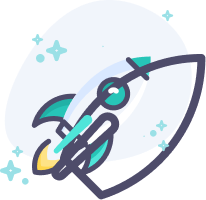
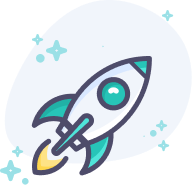
updated mails

diff --git a/mjml_templates/templates/close_out/close_out.html b/mjml_templates/templates/close_out/close_out.html
@@ -72,14 +72,9 @@
         max-width: 35%;
       }
 
-      .mj-column-per-70 {
-        width: 70% !important;
-        max-width: 70%;
-      }
-
-      .mj-column-per-30 {
-        width: 30% !important;
-        max-width: 30%;
+      .mj-column-per-33 {
+        width: 33% !important;
+        max-width: 33%;
       }
 
       .mj-column-per-25 {
@@ -242,7 +237,7 @@
                                   <tbody>
                                     <tr>
                                       <td style="width:80px;">
-                                        <img alt="Sorting Box" height="auto" src="./img/phone-icon.png" style="border:0;display:block;outline:none;text-decoration:none;height:auto;width:100%;font-size:13px;" width="80" />
+                                        <img alt="Sorting Box" height="auto" src="./img/icon-goggles.png" style="border:0;display:block;outline:none;text-decoration:none;height:auto;width:100%;font-size:13px;" width="80" />
                                       </td>
                                     </tr>
                                   </tbody>
@@ -315,7 +310,7 @@
         </tr>
       </table>
       <![endif]-->
-    <!-- Spacer -->
+    <!-- spacer -->
     <!--[if mso | IE]>
       <table
          align="center" border="0" cellpadding="0" cellspacing="0" class="" style="width:600px;" width="600"
@@ -364,7 +359,12 @@
                                   <table border="0" cellpadding="0" cellspacing="0" role="presentation" style="" width="100%">
                                     <tr>
                                       <td align="left" style="font-size:0px;padding:10px 25px;word-break:break-word;">
-                                        <div style="font-family:Helvetica;font-size:16px;font-weight:600;letter-spacing:0.2px;line-height:1;text-align:left;color:#4E4C6A;">A budget made for you, or by you.</div>
+                                        <div style="font-family:Helvetica;font-size:16px;font-weight:600;letter-spacing:0.2px;line-height:1;text-align:left;color:#4E4C6A;">How we'll stay in touch with you.</div>
+                                      </td>
+                                    </tr>
+                                    <tr>
+                                      <td align="left" style="font-size:0px;padding:10px 25px;padding-top:0px;word-break:break-word;">
+                                        <div style="font-family:Helvetica;font-size:13px;line-height:1;text-align:left;color:#4E4C6A;">22seven shows you:</div>
                                       </td>
                                     </tr>
                                   </table>
@@ -377,18 +377,18 @@
             </td>
           
             <td
-               class="" style="vertical-align:top;width:570px;"
+               class="" style="vertical-align:top;width:188.1px;"
             >
           <![endif]-->
-                        <div class="mj-column-per-100 mj-outlook-group-fix" style="font-size:0px;text-align:left;direction:ltr;display:inline-block;vertical-align:top;width:100%;">
+                        <div class="mj-column-per-33 mj-outlook-group-fix" style="font-size:0px;text-align:left;direction:ltr;display:inline-block;vertical-align:top;width:100%;">
                           <table border="0" cellpadding="0" cellspacing="0" role="presentation" style="vertical-align:top;" width="100%">
                             <tr>
                               <td align="center" style="font-size:0px;padding:10px 25px;word-break:break-word;">
                                 <table border="0" cellpadding="0" cellspacing="0" role="presentation" style="border-collapse:collapse;border-spacing:0px;">
                                   <tbody>
                                     <tr>
-                                      <td style="width:520px;">
-                                        <img alt="Feature available on all platforms" height="auto" src="./img/platforms.png" style="border:0;display:block;outline:none;text-decoration:none;height:auto;width:100%;font-size:13px;" width="520" />
+                                      <td style="width:84px;">
+                                        <img alt="Get Debt Free Icon" height="auto" src="./img/icon-slice.png" style="border:0;display:block;outline:none;text-decoration:none;height:auto;width:100%;font-size:13px;" width="84" />
                                       </td>
                                     </tr>
                                   </tbody>
@@ -396,19 +396,13 @@
                               </td>
                             </tr>
                             <tr>
-                              <td align="left" style="font-size:0px;padding:10px 25px;word-break:break-word;">
-                                <div style="font-family:Helvetica;font-size:13px;font-weight:300;letter-spacing:0.2px;line-height:16px;text-align:left;color:#4E4C6A;">22seven creates a personalised budget for you, automatically, based on your own actual behaviour. It calculates your average spending on each category over the last few months, and shows you how you’re doing against that so far this month. <br /><br /> You can also create your own budget. Instead of tracking your spending against your average, you can set your own target amount for any category. (Here’s how to do it on <a href="https://conversations.22seven.com/hc/en-us/articles/200651226-How-to-categorise-transactions/?utm_source=*%7CMAIL_NAME%7C*&utm_medium=email&utm_campaign=InService" style="color: #27c5b8;">web</a>, <a href="https://conversations.22seven.com/hc/en-us/articles/201740377-How-to-categorise-transactions-on-Android/?utm_source=*%7CMAIL_NAME%7C*&utm_medium=email&utm_campaign=InService" style="color: #27c5b8;">Android</a> or <a href="https://conversations.22seven.com/hc/en-us/articles/202650303-How-to-change-a-transaction-category-on-iOS-/?utm_source=*%7CMAIL_NAME%7C*&utm_medium=email&utm_campaign=InService" style="color: #27c5b8;">iPhone</a>.) <br /><br /></div>
+                              <td align="center" style="font-size:0px;padding:10px 25px;word-break:break-word;">
+                                <div style="font-family:Helvetica;font-size:16px;font-weight:600;letter-spacing:0.2px;line-height:1;text-align:center;color:#4E4C6A;">Slice</div>
                               </td>
                             </tr>
                             <tr>
-                              <td align="center" vertical-align="middle" style="font-size:0px;padding:10px 25px;word-break:break-word;">
-                                <table border="0" cellpadding="0" cellspacing="0" role="presentation" style="border-collapse:separate;line-height:100%;">
-                                  <tr>
-                                    <td align="center" bgcolor="#27C5B8" role="presentation" style="border:none;border-radius:20px;cursor:auto;mso-padding-alt:10px 25px;background:#27C5B8;" valign="middle">
-                                      <a href="#" style="display:inline-block;background:#27C5B8;color:#ffffff;font-family:Helvetica;font-size:13px;font-weight:normal;line-height:120%;margin:0;text-decoration:none;text-transform:none;padding:10px 25px;mso-padding-alt:0px;border-radius:20px;" target="_blank"> See your budget </a>
-                                    </td>
-                                  </tr>
-                                </table>
+                              <td align="center" style="font-size:0px;padding:10px 25px;word-break:break-word;">
+                                <div style="font-family:Helvetica;font-size:12px;font-weight:300;letter-spacing:0.2px;line-height:14px;text-align:center;color:#4E4C6A;">A short read of weird and wonderful, random but relevant money-related stuff. We send this every Tuesday. <br /><br /></div>
                               </td>
                             </tr>
                           </table>
@@ -417,6 +411,78 @@
             </td>
           <![endif]-->
                         <!-- Get Debt Free -->
+                        <!--[if mso | IE]>
+            <td
+               class="" style="vertical-align:top;width:188.1px;"
+            >
+          <![endif]-->
+                        <div class="mj-column-per-33 mj-outlook-group-fix" style="font-size:0px;text-align:left;direction:ltr;display:inline-block;vertical-align:top;width:100%;">
+                          <table border="0" cellpadding="0" cellspacing="0" role="presentation" style="vertical-align:top;" width="100%">
+                            <tr>
+                              <td align="center" style="font-size:0px;padding:10px 25px;word-break:break-word;">
+                                <table border="0" cellpadding="0" cellspacing="0" role="presentation" style="border-collapse:collapse;border-spacing:0px;">
+                                  <tbody>
+                                    <tr>
+                                      <td style="width:84px;">
+                                        <img alt="Detect Double Charge Icon" height="auto" src="./img/icon-money-month.png" style="border:0;display:block;outline:none;text-decoration:none;height:auto;width:100%;font-size:13px;" width="84" />
+                                      </td>
+                                    </tr>
+                                  </tbody>
+                                </table>
+                              </td>
+                            </tr>
+                            <tr>
+                              <td align="center" style="font-size:0px;padding:10px 25px;word-break:break-word;">
+                                <div style="font-family:Helvetica;font-size:16px;font-weight:600;letter-spacing:0.2px;line-height:1;text-align:center;color:#4E4C6A;">Money Month</div>
+                              </td>
+                            </tr>
+                            <tr>
+                              <td align="center" style="font-size:0px;padding:10px 25px;word-break:break-word;">
+                                <div style="font-family:Helvetica;font-size:12px;font-weight:300;letter-spacing:0.2px;line-height:14px;text-align:center;color:#4E4C6A;">A personalised link to highlights, insights and summaries of your money over the last month. We send this, well, monthly. <br /><br /></div>
+                              </td>
+                            </tr>
+                          </table>
+                        </div>
+                        <!--[if mso | IE]>
+            </td>
+          <![endif]-->
+                        <!-- Detect Double Charge -->
+                        <!--[if mso | IE]>
+            <td
+               class="" style="vertical-align:top;width:188.1px;"
+            >
+          <![endif]-->
+                        <div class="mj-column-per-33 mj-outlook-group-fix" style="font-size:0px;text-align:left;direction:ltr;display:inline-block;vertical-align:top;width:100%;">
+                          <table border="0" cellpadding="0" cellspacing="0" role="presentation" style="vertical-align:top;" width="100%">
+                            <tr>
+                              <td align="center" style="font-size:0px;padding:10px 25px;word-break:break-word;">
+                                <table border="0" cellpadding="0" cellspacing="0" role="presentation" style="border-collapse:collapse;border-spacing:0px;">
+                                  <tbody>
+                                    <tr>
+                                      <td style="width:84px;">
+                                        <img alt="Save Cash Icon" height="auto" src="./img/icon-rocket.png" style="border:0;display:block;outline:none;text-decoration:none;height:auto;width:100%;font-size:13px;" width="84" />
+                                      </td>
+                                    </tr>
+                                  </tbody>
+                                </table>
+                              </td>
+                            </tr>
+                            <tr>
+                              <td align="center" style="font-size:0px;padding:10px 25px;word-break:break-word;">
+                                <div style="font-family:Helvetica;font-size:16px;font-weight:600;letter-spacing:0.2px;line-height:1;text-align:center;color:#4E4C6A;">New feature releases</div>
+                              </td>
+                            </tr>
+                            <tr>
+                              <td align="center" style="font-size:0px;padding:10px 25px;word-break:break-word;">
+                                <div style="font-family:Helvetica;font-size:12px;font-weight:300;letter-spacing:0.2px;line-height:14px;text-align:center;color:#4E4C6A;">We’ll send these whenever there’s something new for you to check out on 22seven. <br /><br /></div>
+                              </td>
+                            </tr>
+                          </table>
+                        </div>
+                        <!--[if mso | IE]>
+            </td>
+          <![endif]-->
+                        <!-- Detect Double Charge -->
                         <!--[if mso | IE]>
         </tr>
       
@@ -489,7 +555,7 @@
       <table align="center" border="0" cellpadding="0" cellspacing="0" role="presentation" style="width:100%;">
         <tbody>
           <tr>
-            <td style="direction:ltr;font-size:0px;padding:0 15px;text-align:center;">
+            <td style="direction:ltr;font-size:0px;padding:5px 15px;text-align:center;">
               <!--[if mso | IE]>
                   <table role="presentation" border="0" cellpadding="0" cellspacing="0">
                 
@@ -508,57 +574,113 @@
                 <table align="center" border="0" cellpadding="0" cellspacing="0" role="presentation" style="background:#ffffff;background-color:#ffffff;width:100%;border-radius:15px;">
                   <tbody>
                     <tr>
-                      <td style="direction:ltr;font-size:0px;padding:15px 0px;text-align:center;">
+                      <td style="direction:ltr;font-size:0px;padding:20px 0;text-align:center;">
                         <!--[if mso | IE]>
                   <table role="presentation" border="0" cellpadding="0" cellspacing="0">
                 
         <tr>
       
             <td
-               class="" style="vertical-align:top;width:399px;"
+               class="" style="vertical-align:top;width:570px;"
             >
           <![endif]-->
-                        <div class="mj-column-per-70 mj-outlook-group-fix" style="font-size:0px;text-align:left;direction:ltr;display:inline-block;vertical-align:top;width:100%;">
-                          <table border="0" cellpadding="0" cellspacing="0" role="presentation" style="vertical-align:top;" width="100%">
-                            <tr>
-                              <td align="left" style="font-size:0px;padding:10px 25px;padding-top:15px;word-break:break-word;">
-                                <div style="font-family:Helvetica;font-size:16px;font-weight:600;letter-spacing:0.2px;line-height:1;text-align:left;color:#4E4C6A;">Get spending alerts.</div>
-                              </td>
-                            </tr>
-                            <tr>
-                              <td align="left" style="font-size:0px;padding:10px 25px;word-break:break-word;">
-                                <div style="font-family:Helvetica;font-size:13px;font-weight:300;letter-spacing:0.2px;line-height:16px;text-align:left;color:#4E4C6A;">You can <a href="https://conversations.22seven.com/hc/en-us/articles/230406928/?utm_source=*%7CMAIL_NAME%7C*&utm_medium=email&utm_campaign=InService" style="color: #27c5b8;">set spending alerts</a>, which will let you know when you’re getting close to spending what you normally do or have budgeted to. (For these to be helpful, the account(s) you use most often should be linked.)</div>
-                              </td>
-                            </tr>
+                        <div class="mj-column-per-100 mj-outlook-group-fix" style="font-size:0px;text-align:left;direction:ltr;display:inline-block;vertical-align:top;width:100%;">
+                          <table border="0" cellpadding="0" cellspacing="0" role="presentation" width="100%">
+                            <tbody>
+                              <tr>
+                                <td style="vertical-align:top;padding:0px 0px 10px;">
+                                  <table border="0" cellpadding="0" cellspacing="0" role="presentation" style="" width="100%">
+                                    <tr>
+                                      <td align="left" style="font-size:0px;padding:10px 25px;word-break:break-word;">
+                                        <div style="font-family:Helvetica;font-size:16px;font-weight:600;letter-spacing:0.2px;line-height:1;text-align:left;color:#4E4C6A;">How you can get in touch with us.</div>
+                                      </td>
+                                    </tr>
+                                    <tr>
+                                      <td align="left" style="font-size:0px;padding:10px 25px;padding-top:0px;word-break:break-word;">
+                                        <div style="font-family:Helvetica;font-size:13px;line-height:14px;text-align:left;color:#4E4C6A;">If you have any questions, comments, or just want to share a good joke, there are various ways you can get hold of us…</div>
+                                      </td>
+                                    </tr>
+                                  </table>
+                                </td>
+                              </tr>
+                            </tbody>
                           </table>
                         </div>
                         <!--[if mso | IE]>
             </td>
           
             <td
-               class="" style="vertical-align:top;width:171px;"
+               class="" style="vertical-align:top;width:188.1px;"
             >
           <![endif]-->
-                        <div class="mj-column-per-30 mj-outlook-group-fix" style="font-size:0px;text-align:left;direction:ltr;display:inline-block;vertical-align:top;width:100%;">
+                        <div class="mj-column-per-33 mj-outlook-group-fix" style="font-size:0px;text-align:left;direction:ltr;display:inline-block;vertical-align:top;width:100%;">
                           <table border="0" cellpadding="0" cellspacing="0" role="presentation" style="vertical-align:top;" width="100%">
                             <tr>
-                              <td align="center" style="font-size:0px;padding:10px 25px;padding-right:30px;word-break:break-word;">
+                              <td align="center" style="font-size:0px;padding:10px 25px;word-break:break-word;">
                                 <table border="0" cellpadding="0" cellspacing="0" role="presentation" style="border-collapse:collapse;border-spacing:0px;">
                                   <tbody>
                                     <tr>
-                                      <td style="width:116px;">
-                                        <img alt="Get Debt Free Icon" height="auto" src="./img/bell-icon.png" style="border:0;display:block;outline:none;text-decoration:none;height:auto;width:100%;font-size:13px;" width="116" />
+                                      <td style="width:84px;">
+                                        <img alt="Get Debt Free Icon" height="auto" src="./img/icon-email.png" style="border:0;display:block;outline:none;text-decoration:none;height:auto;width:100%;font-size:13px;" width="84" />
                                       </td>
                                     </tr>
                                   </tbody>
                                 </table>
                               </td>
                             </tr>
+                            <tr>
+                              <td align="center" style="font-size:0px;padding:10px 25px;word-break:break-word;">
+                                <div style="font-family:Helvetica;font-size:16px;font-weight:600;letter-spacing:0.2px;line-height:1;text-align:center;color:#4E4C6A;"><a href="mailto:thesven@22seven.com" style="color:#27cbb5;">Email</a></div>
+                              </td>
+                            </tr>
+                            <tr>
+                              <td align="center" style="font-size:0px;padding:10px 25px;word-break:break-word;">
+                                <div style="font-family:Helvetica;font-size:12px;font-weight:300;letter-spacing:0.2px;line-height:14px;text-align:center;color:#4E4C6A;">We’re <a href="mailto:thesven@22seven.com" style="color:#27cbb5;">thesvens@22seven.com</a>. And we’re available every day between 8am and 8pm. <br /><br /></div>
+                              </td>
+                            </tr>
                           </table>
                         </div>
                         <!--[if mso | IE]>
             </td>
-          
+          <![endif]-->
+                        <!-- Get Debt Free -->
+                        <!--[if mso | IE]>
+            <td
+               class="" style="vertical-align:top;width:188.1px;"
+            >
+          <![endif]-->
+                        <div class="mj-column-per-33 mj-outlook-group-fix" style="font-size:0px;text-align:left;direction:ltr;display:inline-block;vertical-align:top;width:100%;">
+                          <table border="0" cellpadding="0" cellspacing="0" role="presentation" style="vertical-align:top;" width="100%">
+                            <tr>
+                              <td align="center" style="font-size:0px;padding:10px 25px;word-break:break-word;">
+                                <table border="0" cellpadding="0" cellspacing="0" role="presentation" style="border-collapse:collapse;border-spacing:0px;">
+                                  <tbody>
+                                    <tr>
+                                      <td style="width:84px;">
+                                        <img alt="Detect Double Charge Icon" height="auto" src="./img/icon-help-centre.png" style="border:0;display:block;outline:none;text-decoration:none;height:auto;width:100%;font-size:13px;" width="84" />
+                                      </td>
+                                    </tr>
+                                  </tbody>
+                                </table>
+                              </td>
+                            </tr>
+                            <tr>
+                              <td align="center" style="font-size:0px;padding:10px 25px;word-break:break-word;">
+                                <div style="font-family:Helvetica;font-size:16px;font-weight:600;letter-spacing:0.2px;line-height:1;text-align:center;color:#4E4C6A;"><a href="https://conversations.22seven.com/hc/en-us" style="color:#27cbb5;">Help Center</a></div>
+                              </td>
+                            </tr>
+                            <tr>
+                              <td align="center" style="font-size:0px;padding:10px 25px;word-break:break-word;">
+                                <div style="font-family:Helvetica;font-size:12px;font-weight:300;letter-spacing:0.2px;line-height:14px;text-align:center;color:#4E4C6A;">Tons of articles and FAQs. Comments, discussions and ideas from other 22seven customers. News and service updates. <br /><br /></div>
+                              </td>
+                            </tr>
+                          </table>
+                        </div>
+                        <!--[if mso | IE]>
+            </td>
+          <![endif]-->
+                        <!-- Detect Double Charge -->
+                        <!--[if mso | IE]>
         </tr>
       
                   </table>
@@ -575,9 +697,7 @@
       
               </td>
             </tr>
-          <![endif]-->
-              <!-- Plain Section -->
-              <!--[if mso | IE]>
+          
                   </table>
                 <![endif]-->
             </td>
